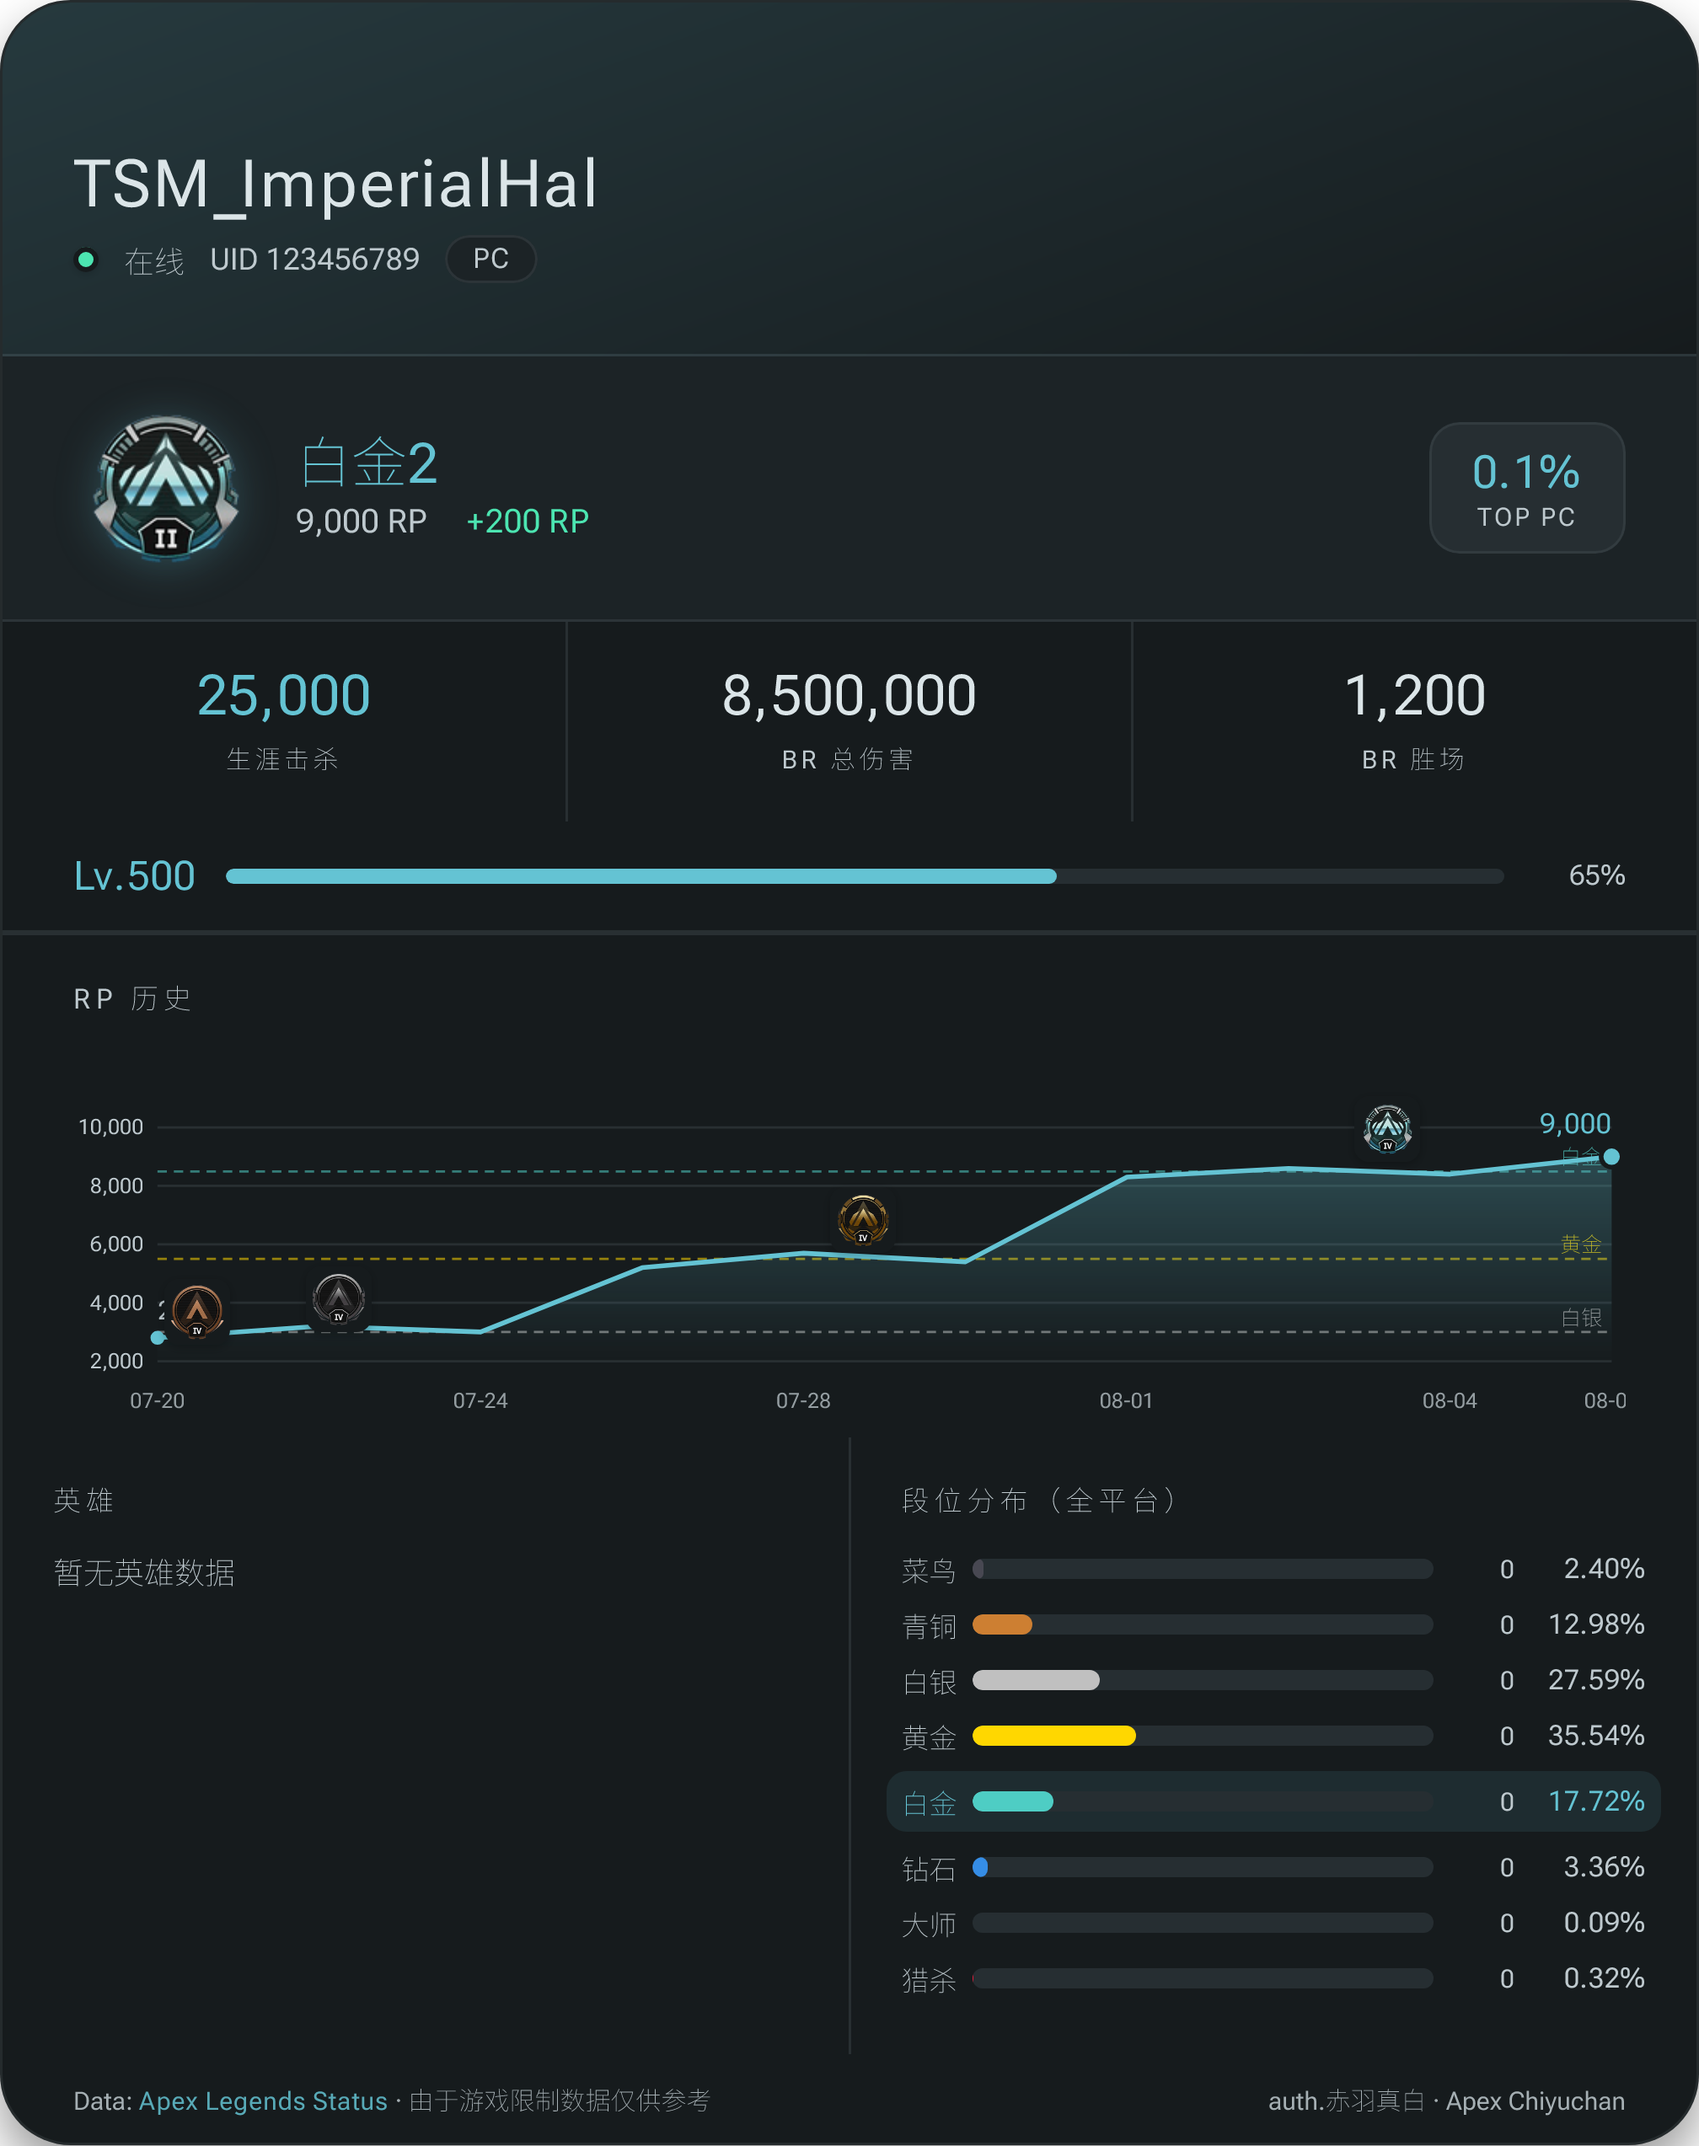
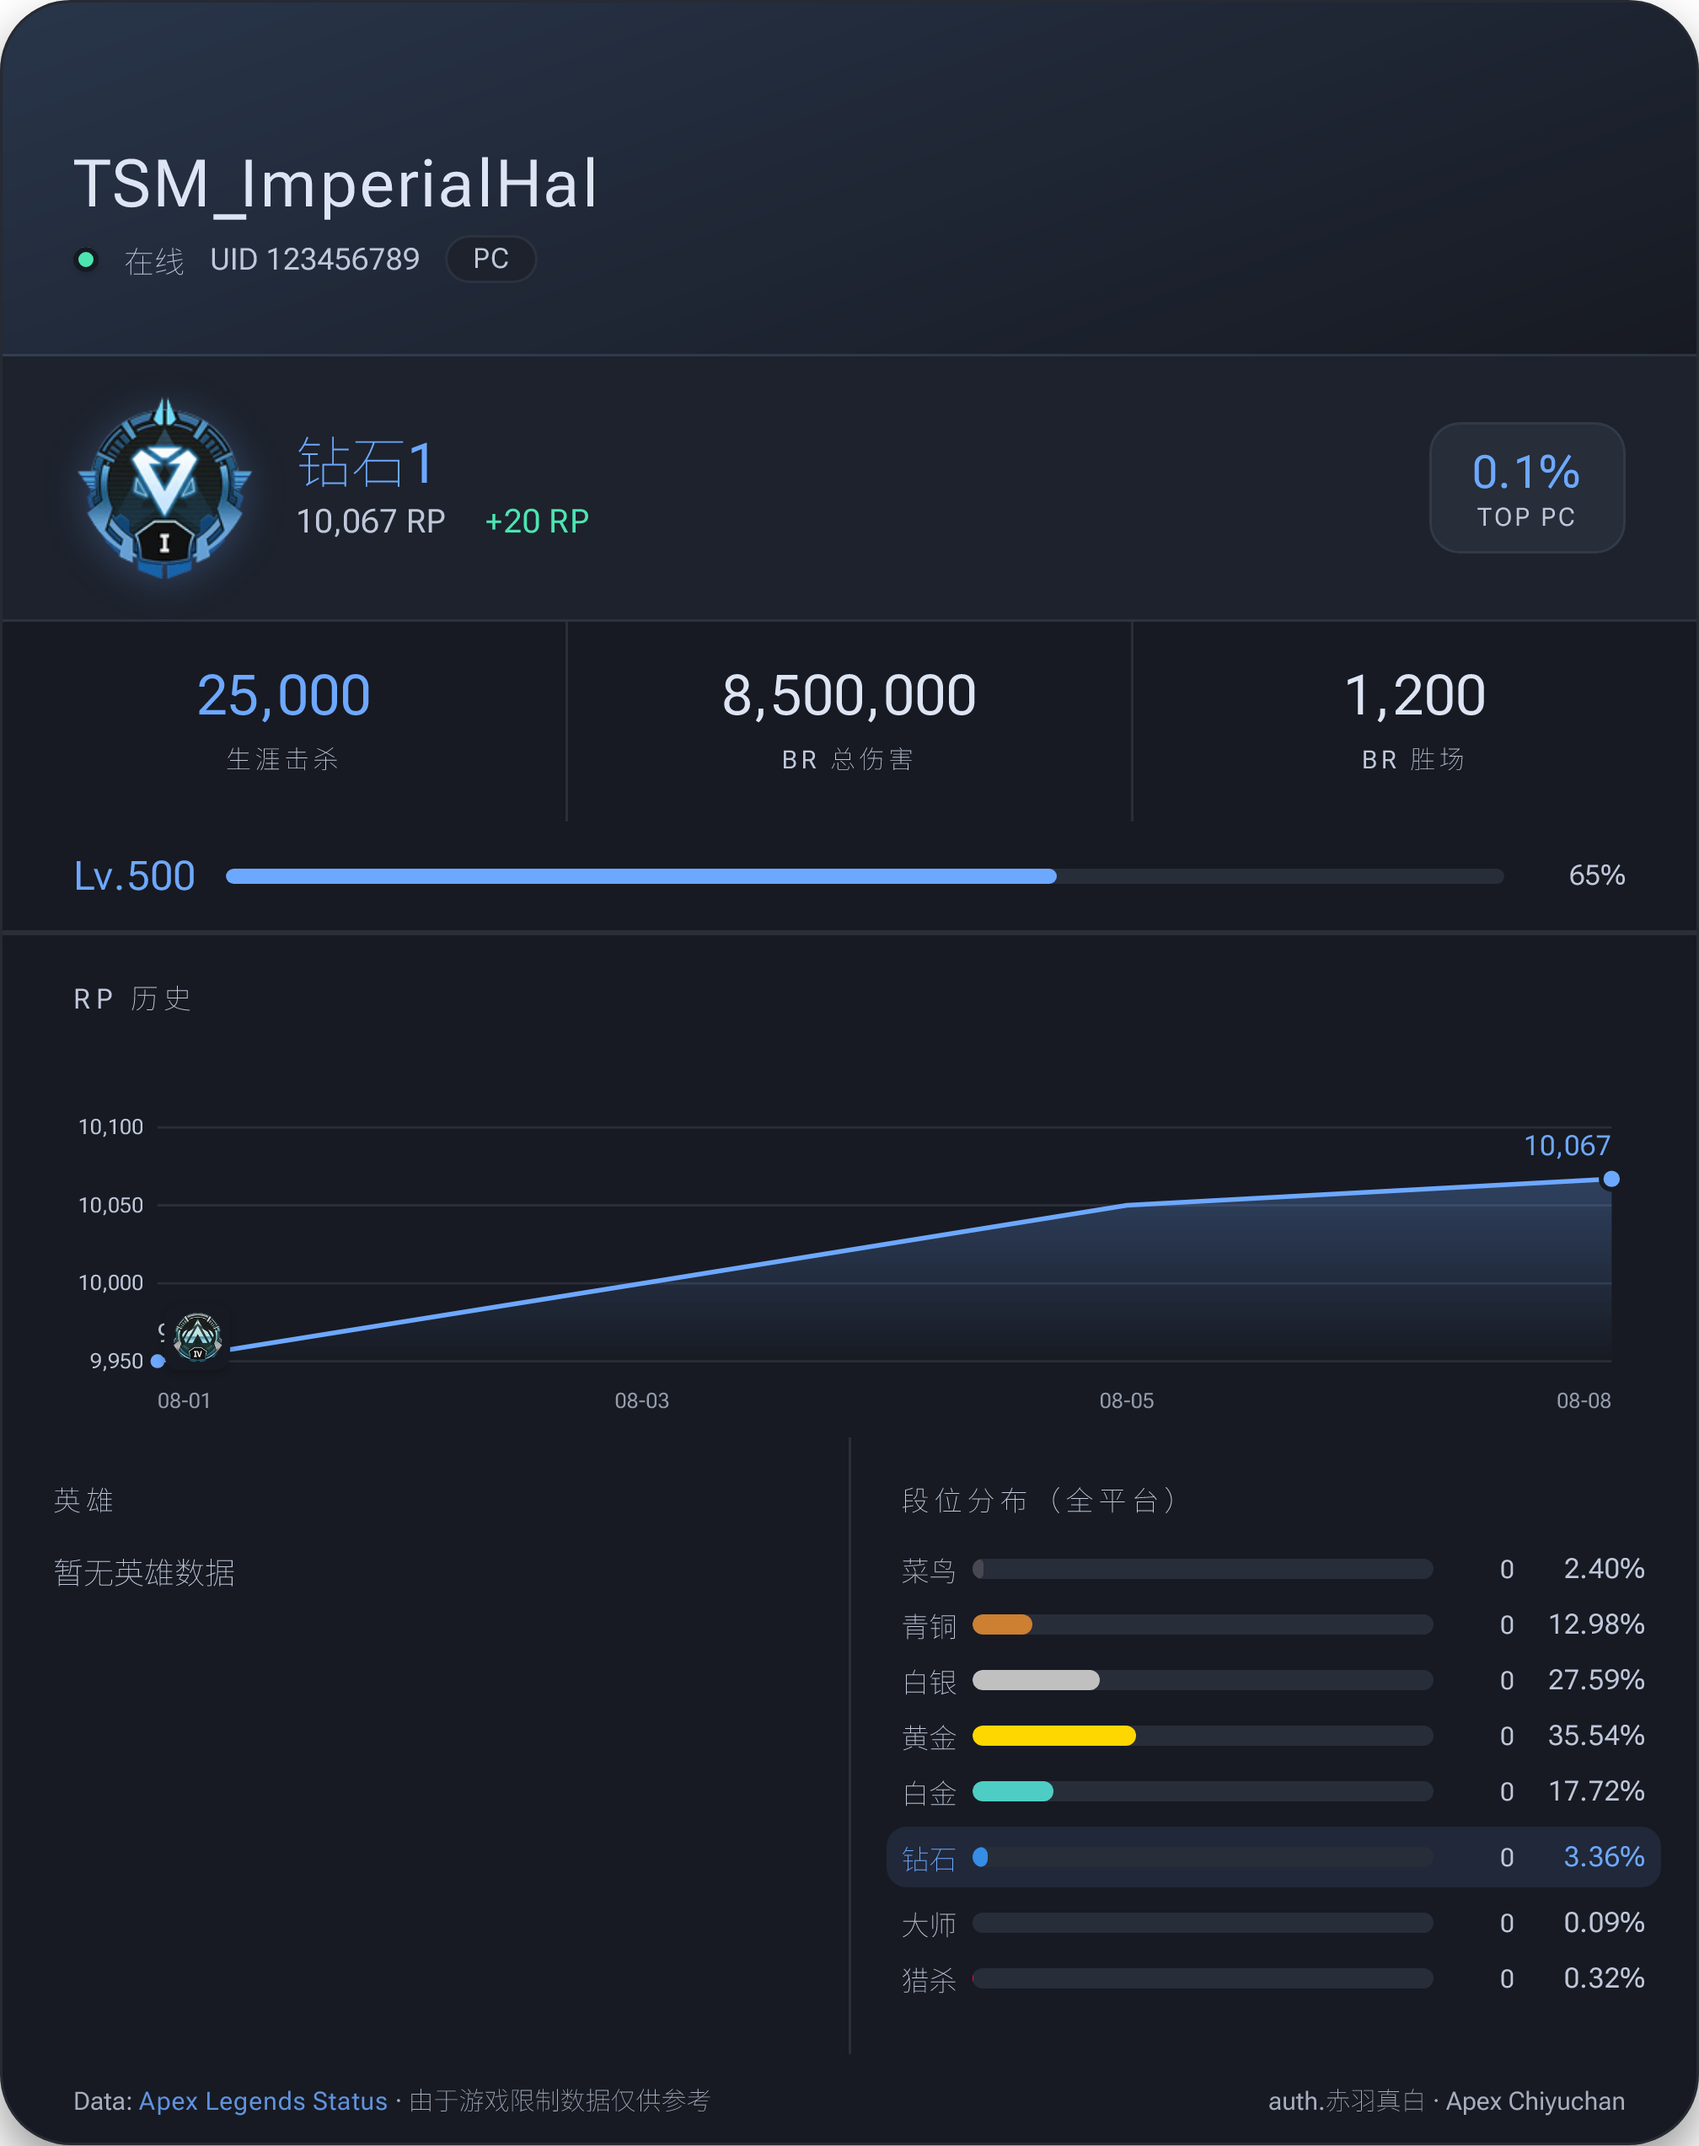
fix: 折线图最右侧日期标签被裁切
x 轴日期标签改为首末点自适应锚点（首点 start、末点 end），
避免末点日期文字超出 SVG 右边界被裁切

diff --git a/libs/playwright_renderer.py b/libs/playwright_renderer.py
@@ -460,13 +460,15 @@ def _build_rp_chart_html(entries: list) -> str:
     lbl1_y = ys[-1] - 10 if ys[-1] - 10 >= 14 else ys[-1] + 16
 
     # X 轴：每个数据点下方标日期（MM-DD）；点数多时隔点显示防重叠
+    # 首点用 start 锚点（文字向右展开）、末点用 end 锚点（文字向左展开），防止贴边裁切
     x_labels = ""
     for i, d in enumerate(dates):
         if n > 8 and i % 2 == 1 and i != n - 1:
             continue  # 密集时只标偶数位点
         xl = f"{d[5:10]}" if len(d) >= 10 else ""
+        anchor = "start" if i == 0 else ("end" if i == n - 1 else "middle")
         x_labels += (
-            f'<text x="{xs[i]:.1f}" y="{H - 4}" text-anchor="middle" font-size="9" '
+            f'<text x="{xs[i]:.1f}" y="{H - 4}" text-anchor="{anchor}" font-size="9" '
             f'fill="var(--on-sv)" opacity="0.75" font-variant-numeric="tabular-nums">{xl}</text>'
         )
 
